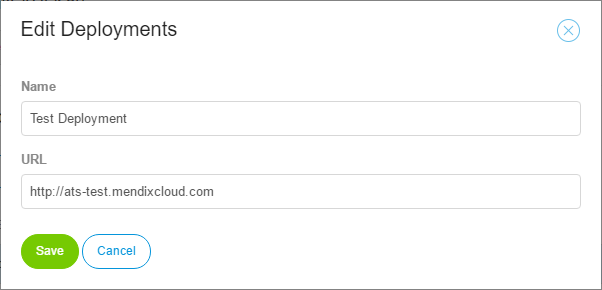
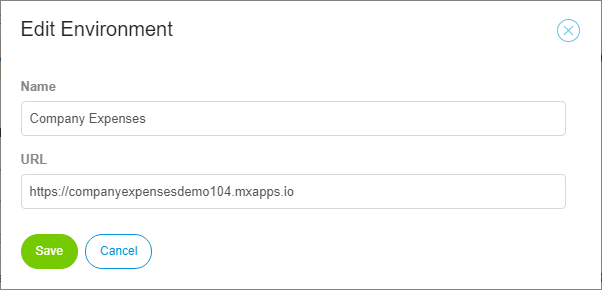
Updated app.md
Updated images
Described result icons.
Described type icons.
Rephrased some passages.
Added description for CI/CD api key
Added description for selenium execution limit retrieval
Removed proxy  and parallel session parts from selenium hub settings
documentation

diff --git a/ats-public-documentation/refguide-ats-2/app.md b/ats-public-documentation/refguide-ats-2/app.md
@@ -9,37 +9,42 @@ category: "Reference Guide 2.0"
 
 ## Dashboard
 
-The dashboard is the point of ATS, where you can find all informations about the results of your tests. It is split into three parts: **Status**, **Details** and **History**
+The dashboard is the point of ATS, where you can find all informations about the results of your tests. It is split into two parts: **Current Status and 7-Day History** infographics and the **Recent Tests** result tree. 
 
-### Status
+![Dashboard](attachments/project/dashboard.png)
 
-Status is the first thing you will see, if you log in to ATS. The chart will show you the current state of your tests.
-It includes the results of all your test cases. For data driven tests, only the aggregated result out of the execution with the records of the dataset is counted, similar like it is done for a testsuite.
+### Infographics
 
-| Result type  | Meaning                                  |
-| ------------ | ---------------------------------------- |
-| Passed       | Number of tests which ran successfull.   |
-| Failed       | Number of failed tests.                  |
-| Canceled     | Number of tests canceled by the user manually |
-| Not executed | Number of tests which haven't been executed yet |
-| Unknown      | Number of tests where the status is unknown. |
+The infographics are the first thing you will see, if you open your app in ATS. These charts will show you the current status and the states of the past seven days of your tests. It includes the results of all your test cases. Datadriven tests are counted as a single test case. 
 
-You can export the current results of your test cases by pressing **Download Report **. This will generate a detailed test report for your project as pdf document. 
+For the 7-days history, everyday at 23:59 UTC, a snapshot of the current test states is taken.
 
-### Details
-Under **Details** you can find detailed informations for all of your test cases and test suites. You can see the passed time since the latest execution, its result and the success rate. For test suites, the success rate is calculated using the results of all containing test cases. For data driven tests, the success rate is calculated on basis of the execution results of all records from the data set, they were executed with. The data set is displayed under **test data**.
+You can generate a report of the status of your tests by pressing **Download Report**. After the generation is finished, your browser will download the report as a PDF document. 
 
-You can open the latest execution log of a test case by pressing **Show Log**. Clicking the **name of a test case/test suite** will open the edit form. 
+### Recent Tests
+Under **Recent Tests** you can find detailed informations about the status of all your test cases and test suites. You can see the passed time since the latest run, its result and for test suites the success rate. The success rate is calculated using the results of all containing test cases. For data driven tests, the data set is displayed in the column **test data**.
 
-There are two icons for distinguishing between test cases and test suites.
+The results of your tests are displayed as icons. The following table explaines the meanings of those icons:
+
+| Icon | Meaning |
+| ---- | ------- |
+|![Passed](attachments/project/passed-icon.png)| Passed. The test was run successfully |
+|![Failed](attachments/project/failed-icon.png)| Failed. The test has failed |
+|![Canceled](attachments/project/canceled-icon.png)| Canceled. The test was canceled by a user before finishing |
+|![Skipped](attachments/project/skipped-icon.png)| Skipped. The execution of this test was skipped or it hasen't been run yet |
+
+There are three icons for distinguishing between test cases, test suites and datadriven test cases.
 
 | Icon                                     | Meaning    |
 | ---------------------------------------- | ---------- |
 | ![Test Case](attachments/project/test-case-icon.png) | Test Case  |
 | ![Test Suite](attachments/project/test-suite-icon.png) | Test Suite |
+| ![Datadriven Test Case](attachments/project/ddt-icon.png)| Datadriven Test Case|
 
-### History
-The history shows the results of the past seven days in a line-chart. 
+
+You can open the latest execution log of a test case by pressing **Show Log**. Clicking the **name of a test case/test suite** will open the edit page. 
+
+
 
 ## Permissions
 We have two roles in ATS, which are assigned to the user by the system itself. The role tester is assigned to a user, when he has at least one teamserver project licensed in ATS. He is going to be app admin, if he has the app settings permission of the teamserver project in Sprintr. The app settings permission is by default part of the SCRUM Master role in Sprintr.
@@ -54,18 +59,14 @@ Settings is the central point to configure ATS. Here you can set the Mendix API 
 
 Only project administrators can edit the settings. All other users can only view the available deployments and selenium hubs.
 
-![Settings](attachments/project/settings.JPG)
+![Settings](attachments/project/settings.png)
 
 {% endmarkdown %}</div>
 
-### Mendix API Key
-The Mendix API Key is used to synchronize stories between sprintr and ATS.
-You will have to set this key, otherwise you cannot use the project stories in ATS.
-Visit [Authentication](../apidocs/authentication), for more informations about where to find the API Keys of your Mendix project.
 
-### Deployments
+### Environments
 
-Under **Deployments**, you can see a list of deployment locations, that are configured for the current project. Those will be selectable, to use as target test applications.
+Under **Environments**, you can see a list of deployment locations, that are configured for the current project. Those will be selectable, to use as target test applications.
 
 You can edit, create, and delete applications by pressing the buttons in the top bar:
 
@@ -90,11 +91,21 @@ In the "Edit Selenium Hub" dialog, you can set the following parameters:
 | ------------------- | ---------------------------------------- |
 | Name                | The name of the Selenium hub.            |
 | URL                 | The URL of the Selenium server.          |
-| Parallel Sessions   | The number of tests that can run in parallel on the Selenium hub. |
-| Use proxy           | Tells ATS to use the proxy. Usually there is no need to use a proxy server. |
-| Proxy URL           | The URL of an optional proxy server. This is only visible, if "Use proxy" is checked |
 | Custom Capabilities | Set the Selenium DesiredCapabilities (for more information, see the Selenium documentation). |
+
+ATS automatically retrieves the parallel test session limit from the selenium hub. This limit is updated every 15 minutes. If ATS is not able to get the limit from the selenium hub, it is set to one single test execution at a time.  
 
 ### Execution log cleanup
 
-ATS automatically delete execution logs that are older than 90 days. You can change here, for how many days ATS will keep the execution logs. ATS will keep the execution logs at least for one day.
+ATS automatically deletes execution logs that are older than 90 days. You can change here, for how many days ATS will keep the execution logs. ATS will keep the execution logs at least for one day.
+
+### Mendix API Key
+The Mendix API Key is used to synchronize stories between sprintr and ATS.
+You will have to set this key, otherwise you cannot use the project stories in ATS. Be aware, that after you have set the Mendix API Key, you won't be able to see it again. You can only set a new API key.
+
+Visit [Authentication](../apidocs/authentication), for more informations about where to find the API Keys of your Mendix project.
+
+### CI/CD API key
+The CI/CD API key is used to allow other systems or applications access to the ATS CI/CD API. Generating a new API key will revoke access for any systems using the old API key. These systems will not be able to access the ATS CI/CD API until they are updated with the new API key. Make sure to save the displayed API key in a secure place, as you cannot view it again in ATS. 
+
+For more informations about the CI/CD API visit the [CI/CD API section](cicd-api.md) of this documentation. 
